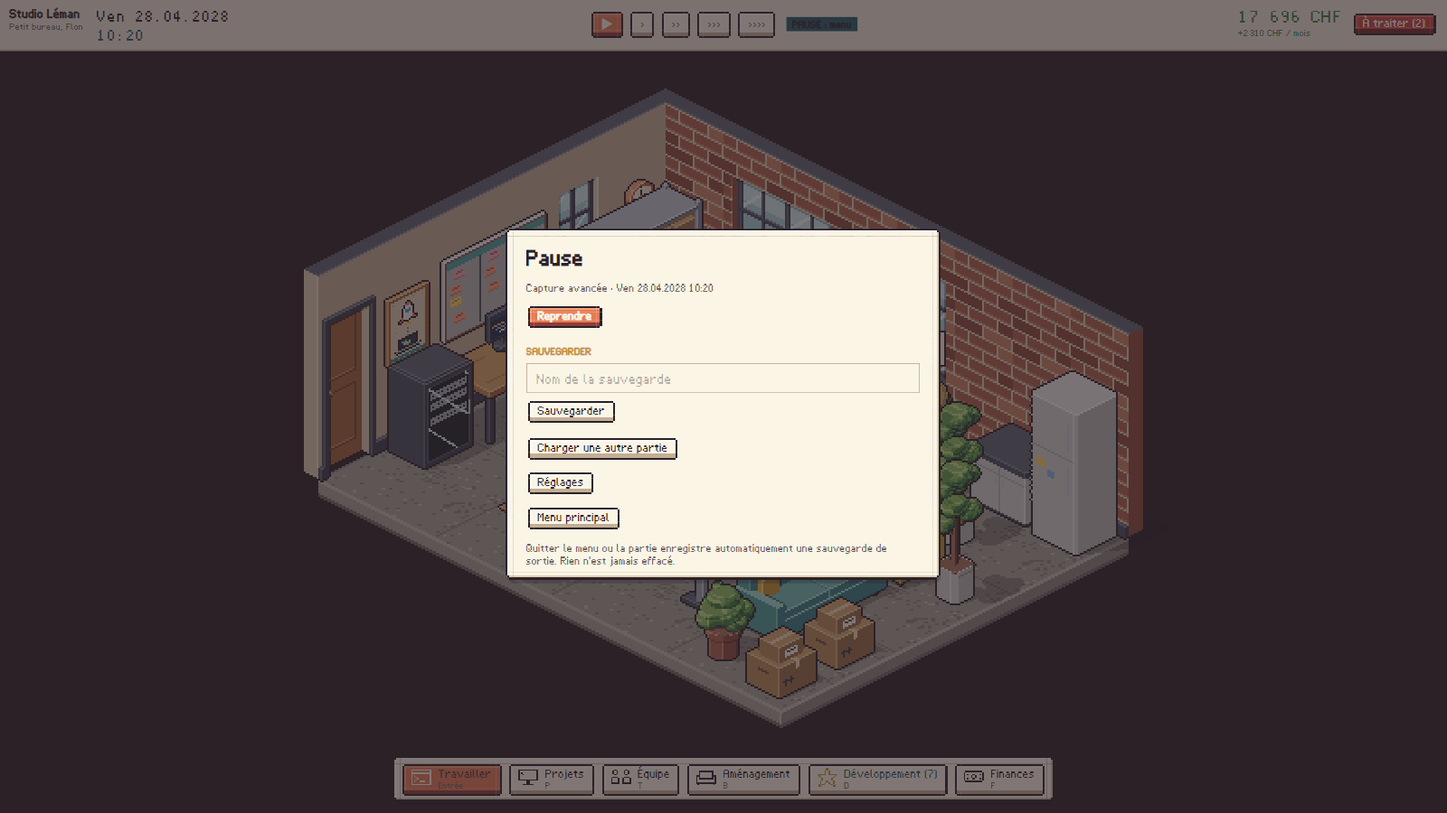
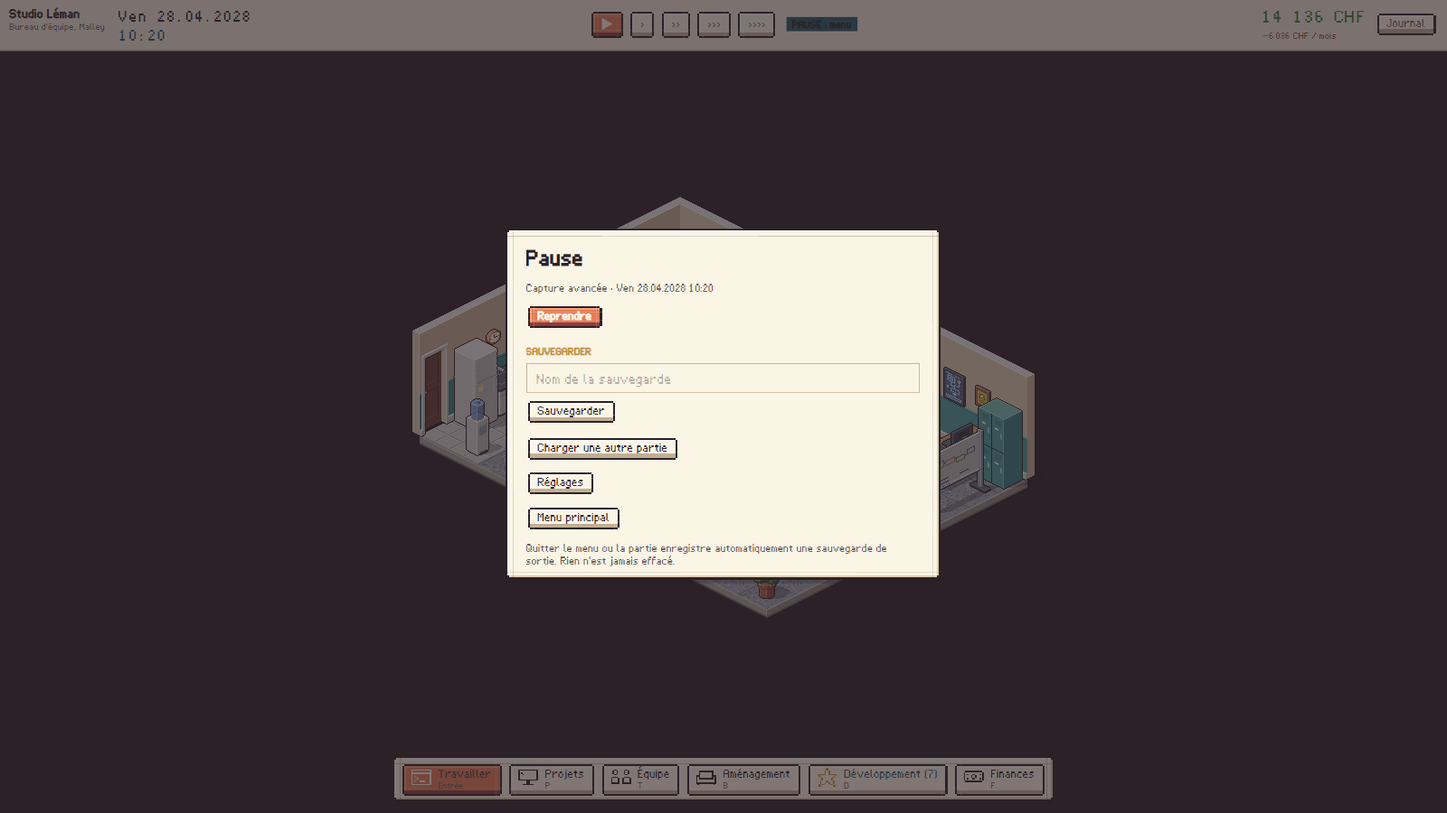
docs(V1 lot 4): sites, infrastructure, cloud, format 4, registre et captures
- V1_ETAT : lot 4 fait, limites (rentabilité de la salle serveur à petite échelle, datacenter et
  siège sans test dédié), matrice à jour
- DESIGN_SIMULATION : sites et locations, infrastructure, ordre d'usage, offres cloud, nouveaux nœuds
- SAVES : format 4 et migration 3 → 4 vérifiée sur une vraie sauvegarde
- Registre : 77 validées (59 avant), 142 partielles, 367 non implémentées (tools/registry_lot4.py)
- Passation : règles multisites (ne pas utiliser Premises dans la simulation), suite conseillée
- Captures refaites par le parcours --capture, dont 26 à 28 (salle serveur, Sites, Services cloud)

Changed region(s): [[0.1875, 0.0933, 0.8125, 0.9022], [0.875, 0.0, 1.0, 0.0622], [0.0312, 0.0, 0.1875, 0.0622]]

diff --git a/tools/registry_lot4.py b/tools/registry_lot4.py
@@ -1,0 +1,81 @@
+"""
+Met à jour docs/asset_usage.csv avec l'infrastructure et les sites branchés au lot 4 (voir docs/V1_ETAT.md).
+
+« validé » : un consommateur réel dans le jeu ET un test qui vérifie une conséquence (Tests/space/InfrastructureTest.cs,
+Tests/space/SitesTest.cs). « partiel » : effet codé avec la même règle que des objets testés, sans test sur cet identifiant.
+
+    python tools/registry_lot4.py
+"""
+import csv
+import os
+
+ROOT = os.path.dirname(os.path.dirname(os.path.abspath(__file__)))
+REGISTRY = os.path.join(ROOT, "docs", "asset_usage.csv")
+
+INFRA = "Core/space/Furniture.cs;Core/space/Infrastructure.cs;Core/campaign/Campaign.Infra.cs"
+CONSUMER = "Infrastructure du site (capacités, électricité, froid, réseau), hébergement interne, offres cloud"
+TEST = "Tests/space/InfrastructureTest.cs : "
+
+
+def row(indicator, state, test, files=INFRA, unlock="arbre « Salle serveur » (catalogue)", consumer=CONSUMER):
+    return dict(consommateur=consumer, fichier_definition=files, deblocage=unlock,
+                indicateur_ou_interaction=indicator, etat=state, scenario_test=test)
+
+
+updates = {}
+validated = [
+    (["rack_compact", "rack_standard", "module_server_1u", "module_storage_2u", "module_storage_jbod_4u", "module_network_switch_1u",
+      "module_patch_panel_1u", "module_cable_manager_1u"],
+     "emplacements en U, switch obligatoire, contrôleur de disques, organisation du câblage (−10 % sans)", "ModulesFillRackUnitsAndNeedASwitchAndAController"),
+    (["server_tower_classic", "crac_unit", "fiber_box"], "capacité limitée par le froid, consommation du climatiseur, débit réseau du site",
+     "PowerCoolingAndNetworkLimitWhatASiteDelivers"),
+    (["rack_high_density", "module_gpu_4u", "module_blank_1u"], "chaleur des modules −20 % (porte refroidie), obturateurs −3 % (9 % au plus), GPU",
+     "HighDensityRacksAndBlanksRunCooler"),
+    (["ups_floor", "supervision_console"], "probabilité d'incident : couverture des onduleurs, supervision ÷2", "UpsAndSupervisionMakeIncidentsRarer"),
+]
+for ids, indicator, test in validated:
+    for i in ids:
+        updates[i] = row(indicator, "validé", TEST + test, unlock="dès le départ (catalogue)" if i in ("server_tower_classic", "fiber_box") else
+                         "arbre « Haute densité »" if i in ("rack_high_density", "module_gpu_4u") else "arbre « Salle serveur » (catalogue)")
+updates["cable_tray_straight"] = row("organisation du câblage +0,5 ; partage la case (en hauteur)", "validé",
+                                     TEST + "ModulesFillRackUnitsAndNeedASwitchAndAController (retirés : −10 %)")
+
+partial = {
+    "module_compute_2u": "calcul 40 + hébergement 8", "module_compute_node_2u": "calcul parallèle 64 (sans hébergement)",
+    "module_ups_2u": "onduleur de baie, 2 kW", "nas_desktop": "stockage 16 To sur un meuble", "rack_cooler_inrow": "froid +12 kW",
+    "power_distribution_cabinet": "puissance du site +30 kW (livrée avec la salle serveur)", "router": "débit réseau +100",
+    "network_switch_desk": "débit réseau +50", "access_point": "débit réseau +50 (au mur)", "network_cabinet": "organisation +2",
+    "cable_tray_corner": "organisation +0,5", "cable_conduit": "organisation +0,5 (au sol)",
+    "security_cage_panel": "sécurité +1 : confiance des offres cloud (+25 % de demande au plus)", "security_cage_door": "sécurité +2",
+    "workstation_gpu": "poste de travail ×1,05 et 2 unités GPU", "workstation_compute": "poste de travail ×1,05 et 12 unités de calcul",
+}
+for i, indicator in partial.items():
+    updates[i] = row(indicator, "partiel", "même règle que les objets testés dans " + TEST.split(" :")[0] + " ; pas de test sur cet identifiant")
+
+SITES = "Core/space/RealEstate.cs;Core/campaign/Campaign.Sites.cs"
+updates["room_server_compact"] = row("site technique : climatisation, armoire électrique, fibre, chemins de câbles livrés ; pas de bureaux en déménagement",
+                                     "validé", "Tests/space/SitesTest.cs : TechnicalRoomsAreUnlockedInTheTreeAndHostNoDesks", SITES,
+                                     "arbre « Salle serveur », location en plus", "Sites (louer, déménager, fermer, afficher)")
+updates["room_datacenter"] = row("site technique à grande échelle (deux climatiseurs, armoires, cage livrés)", "partiel",
+                                 "même code que la salle serveur ; pas de test dédié", SITES, "arbre « Datacenter »", "Sites")
+updates["room_hq_floor"] = row("siège : jusqu'à 60 postes, accueil, cafétéria, sanitaires, réunions livrés", "partiel",
+                               "même code que les autres bureaux ; pas de test dédié", SITES, "arbre « Plusieurs sites »", "Sites")
+
+with open(REGISTRY, encoding="utf-8", newline="") as f:
+    reader = csv.DictReader(f)
+    columns = reader.fieldnames
+    rows = list(reader)
+known = {r["id"] for r in rows}
+missing = sorted(set(updates) - known)
+assert not missing, f"IDs absents du registre : {missing}"
+for r in rows:
+    if r["id"] in updates:
+        r.update(updates[r["id"]])
+with open(REGISTRY, "w", encoding="utf-8", newline="") as f:
+    writer = csv.DictWriter(f, fieldnames=columns)
+    writer.writeheader()
+    writer.writerows(rows)
+states = {}
+for r in rows:
+    states[r["etat"]] = states.get(r["etat"], 0) + 1
+print(states)

diff --git a/docs/V1_ETAT.md b/docs/V1_ETAT.md
@@ -28,19 +28,19 @@ Ce fichier sert à reprendre le travail : il dit ce qui existe vraiment dans le 
 | Le fondateur ne produit plus en passif | **fait (lot 2)** | `Campaign.Time.cs` (`FounderTime`) : support seulement, hors terminal | — |
 | Terminal de saisie mot par mot | **fait (lot 2)** | `Core/campaign/Campaign.Terminal.cs`, `UI/Hud/TerminalView.cs`, `UI/Screens/GameScreen.cs` | Améliorations du terminal dans l'arbre (lot 3), saisie simplifiée d'accessibilité |
 | Mini-jeux de grosses actions et délégation | **fait (lot 3)** pour le logiciel | `Core/campaign/Campaign.Launch.cs`, `UI/Hud/LaunchView.cs` | Mini-jeux matériel, IA, quantique (lots 5 et 6) |
-| Avis causaux avec lien vers le levier | partiel | `Core/products/Reviews.cs` | Causes matériel (rupture, défauts, délai), cloud, IA |
-| Prix, marketing, souhaits, entretien, hébergement plafonné | fait | `Campaign.Products.cs` (`SetPrice`, `SetMarketing`, `AdjustHosting`), `Core/products/Market.cs` | Relier à l'infrastructure interne |
+| Avis causaux avec lien vers le levier | partiel | `Core/products/Reviews.cs` ; offres cloud : `Campaign.CloudTrends` (prix, saturation, coupures) | Causes matériel (rupture, défauts, délai), IA |
+| Prix, marketing, souhaits, entretien, hébergement plafonné | **fait (lot 4)** | `Campaign.Products.cs` (`AdjustHosting` : externe, ou interne avec débordement sous le plafond), `Core/products/Market.cs` (`Product.Capacity`) | — |
 | Équipe : recrutement, horaires, congés, formation, augmentation | fait | `Core/campaign/Campaign.Team.cs`, `Core/team/` | Métiers nouveaux (opérateur, chercheur), apparences du pack |
 | Arbre de développement sur vrais jalons | partiel | `Core/progress/DevTree.cs` (25 nœuds, 6 branches dont « Outils du boss »), `Campaign.Daily.cs` (`AwardUsers`, `CheckMilestones`) | Sous-branches matériel, industrie, IA, cloud, recherche |
-| Finances et faillite progressive | fait | `Core/finance/Ledger.cs`, `Core/finance/Solvency.cs`, `Campaign.Daily.cs` (`UpdateSolvency`) | Charges énergie, matières, calcul externe ; détail par site |
-| Sauvegardes nommées, automatiques, atomiques, migration | **format 3 (lot 2)** | `SaveStore.cs` (format 3), `Migration.cs` (1 → 2), `MigrationV2.cs` (2 → 3), copie `.v<format>.json` | Sites multiples et nouvelles activités (format 4, lot 4) |
+| Finances et faillite progressive | fait | `Core/finance/Ledger.cs` (catégories `Cloud`, `Energy`), `Core/finance/Solvency.cs`, `Campaign.Daily.cs` | Matières (lot 5) ; détail du résultat par site |
+| Sauvegardes nommées, automatiques, atomiques, migration | **format 4 (lot 4)** | `SaveStore.cs` (format 4), `Migration.cs` (1 → 2), `MigrationV2.cs` (2 → 3), `MigrationV3.cs` (3 → 4), copie `.v<format>.json` | Nouvelles activités des lots 5 et 6 |
 | Mobilier utile et plafonné | **fait (lot 3)** pour le bureau | `Core/space/Furniture.cs` (89 IDs du pack jouables), `Core/space/Layout.cs` (`Comfort` : 8 indicateurs plafonnés avec couverture), synthèse dans `UI/Hud/Panels/BuildPanel.cs` | `moving_box` ; mobilier des ateliers, labos et salles techniques (lots 4 à 6) ; synthèse multisite (lot 4) |
-| Plusieurs sites visitables, vue commune | absent | Un seul `Premises` dans `Campaign`, sur un plan du pack (chambre, petit bureau, bureau moyen, open space) | Lot 4 |
+| Plusieurs sites visitables, vue commune | **fait (lot 4)** | `Campaign.Sites`, `Campaign.SiteId` (vue), `Core/campaign/Campaign.Sites.cs`, `Core/space/RealEstate.cs` (parc d'offres), `UI/Hud/Panels/SitesPanel.cs` | Ateliers, usine, laboratoire (lots 5 et 6) ; transferts entre sites avec délai (lot 5, pour les stocks) |
 | Rendu isométrique, ancres, tri topologique, ombres, couches | **fait (lots 2 et 3)** | `UI/Iso/PackImages.cs`, `UI/Iso/RoomRenderer.cs` (portage du compositeur ; objets muraux et plafond depuis le local réel), `UI/Scene/SceneCanvas.cs` | Estompage des objets hauts |
 | HUD Papier, polices du pack, curseurs | partiel (lot 2) | `UI/Pixel/PixelPanel.cs` (9-slice du pack), `UI/Pixel/Palette.cs`, `UI/App.axaml`, `UI/Pixel/Icons.cs` | Curseurs, onglets, cartes, listes, cases à cocher du pack ; police à régler (taille non multiple de 12) |
 | Personnages en couches, coiffures, peaux | **fait (lot 2)** | `Core/team/Person.cs` (`Appearance`), `UI/Iso/Portraits.cs`, choix à la nouvelle campagne | Recoloration des tenues |
 | Matériel, usine, stocks, approvisionnement, canaux de vente | absent | — | Lot 5 |
-| Infrastructure interne, racks, énergie, refroidissement, offres cloud | absent | — | Lot 4 |
+| Infrastructure interne, racks, énergie, refroidissement, offres cloud | **fait (lot 4)** | `Core/space/Infrastructure.cs`, `Core/campaign/Campaign.Infra.cs`, `Core/campaign/Campaign.Cloud.cs`, `UI/Hud/Panels/CloudPanel.cs` | Usage du calcul et des GPU par l'IA et la recherche (lots 5 et 6) ; quantique (lot 6) |
 | IA simulée | absent | — | Lot 6 |
 | Recherche, laboratoires, studio, XR, quantique | absent | — | Lots 5 et 6 |
 | Bots d'équilibrage et rapport | partiel | `Core/bots/`, `Tests/balance/` (terminal, délégation, mots tapés mesurés) | Nouvelles branches (lots 4 à 6) |
@@ -55,7 +55,7 @@ Le pack fournit un compositeur C# de référence (`assets/StartupRushOriginalAss
 | 1 | Audit, protection des sauvegardes, registre de couverture | **fait** : pack et spécification versionnés, registre de 586 lignes (570 IDs, 10 plans, 6 modules), contrôle statique, cette matrice. Les sauvegardes actuelles sont déjà atomiques avec copie `.bak` ; la migration vers le format 3 arrive avec le lot 2. |
 | 2 | Chambre avec les nouveaux assets, HUD, création de projet, terminal du boss, premier lancement, avis, sauvegarde et reprise | **fait**, voir ci-dessous |
 | 3 | Employés automatiques, délégation, mini-jeux sans spam, arbre et confort utiles | **fait**, voir « Lot 3 » (mini-jeux matériel, IA et quantique avec les lots 5 et 6) |
-| 4 | Multisite, réseau, racks, hébergement interne et externe, offres cloud | à faire |
+| 4 | Multisite, réseau, racks, hébergement interne et externe, offres cloud | **fait**, voir « Lot 4 » |
 | 5 | Recherche, prototypage, gamme matérielle, flux d'usine, stocks, approvisionnement, canaux de vente | à faire |
 | 6 | IA simulées, studio, XR, calcul avancé et quantique | à faire |
 | 7 | Couverture de tous les IDs, équilibrage, performance, accessibilité, migrations, candidat de sortie | à faire |
@@ -137,7 +137,41 @@ Reste (reporté aux lots suivants, avec leur contexte) :
 - `moving_box` : montrer les cartons dans la scène et ouvrir leur contenu (décor sans fonction pour l'instant).
 - Mobilier des ateliers, laboratoires et salles techniques, synthèse multisite : lots 4 à 6.
 
+## Lot 4 : ce qui a été fait, ce qui reste
+
+Testé par `Tests/space/SitesTest.cs` et `Tests/space/InfrastructureTest.cs` ; vu sur les captures 26 à 28 du vrai jeu.
+
+- **Sites** : `Campaign.Sites` (le premier est le siège) et `Campaign.SiteId` (le site affiché, un choix de vue). Louer en plus
+  (nœud « Plusieurs sites »), déménager le site affiché, fermer un site (garantie rendue, matériel en cartons, personnes sans
+  poste nommées ; le dernier site ne se ferme pas). Le parc de locations est défini par données : 7 types de locaux, plusieurs
+  adresses chacun ; une offre louée disparaît des offres. Salle serveur et datacenter : sites techniques (climatisation,
+  armoires électriques, fibre, chemins de câbles et cage livrés ; baies et serveurs du plan = aperçu) ; siège jusqu'à 60 postes.
+- **Simulation par site** : chaque personne travaille sur le site de son poste (confort, pauses, coordination de ce site) ; le
+  site affiché ne change rien (test : deux campagnes identiques regardant deux sites différents donnent le même état).
+- **Format 4** : `MigrationV3` fait du local le premier site, reprend l'adresse depuis le nom et marque les loyers déjà facturés
+  pour ce site ; fixture réelle `Tests/fixtures/campaign_v3.json` (une sauvegarde écrite par le jeu au format 3).
+- **Infrastructure** (`Infrastructure.Of`) : modules en U dans les baies (fiche `fits` et emplacements du pack), switch
+  obligatoire, tiroir de disques avec contrôleur ; capacités hébergement, calcul, GPU, stockage ; électricité (base du local +
+  armoires), froid (base + climatiseurs ; baie haute densité −20 %, obturateurs −3 % chacun, 9 % au plus), réseau (2 par unité
+  d'hébergement), câblage (−10 % sans organisation), onduleurs et supervision contre les incidents (3 % par jour au plus), cage
+  (confiance des offres). Les climatiseurs consomment selon la chaleur. Électricité à 0,25 CHF/kWh, facturée avec le mois.
+- **Hébergement interne** : chaque nuit, les projets « sur tes serveurs » reçoivent leur part dans l'ordre du portefeuille
+  (avec 25 % de marge), une réserve réglable reste libre, puis les offres cloud. Ce qui ne tient pas déborde chez l'hébergeur,
+  sous le plafond du projet (0 : jamais).
+- **Offres cloud** : hébergement, stockage (nœud « Offres cloud »), calcul et GPU (« Calcul à la demande ») ; prix et réserve
+  réglables ; demande agrégée (taille du marché, renommée, prix, coupures des 30 derniers jours, sécurité) ; une réservation qui
+  ne tient plus est réduite avec un avertissement ; causes lisibles avec leur levier ; +2 points à 1 000 CHF sur 30 jours.
+- **Bots** : « hebergement_maison » (0 faillite sur 5 ; 77 865 CHF médian contre 191 938 sans salle serveur sur 18 mois).
+
+Limites et suite :
+- À petite échelle, la salle serveur se rembourse lentement (bilan ci-dessus) : à réévaluer au lot 7 avec l'IA et la recherche,
+  qui consommeront le calcul et les GPU (aujourd'hui seulement vendus).
+- Pas de câblage fil à fil ni de zones dans une pièce : l'organisation et la sécurité sont des scores plafonnés par site.
+- Le datacenter et le siège n'ont pas de test dédié (même code que la salle serveur et les bureaux).
+- `moving_box` toujours sans fonction ; mini-jeux matériel/IA/quantique avec les lots 5 et 6.
+
 ## Couverture du registre
 
-586 lignes : **59 validées**, 124 partielles (branchées sans test d'effet, ou vérifiées seulement en capture), 403 non
-implémentées (dont les décors des plans, affichés mais sans fonction pour l'instant). Lot 3 : `tools/registry_lot3.py`. Une ligne passe à « validé » seulement quand elle nomme un consommateur réel dans le jeu, son fichier de définition et un scénario de test qui vérifie une conséquence (avant/après pour un objet de gameplay, action et état pour un contrôle d'interface). Le contrôle `AssetRegistryTest` est statique : il vérifie les IDs et les fichiers cités, pas les effets.
+586 lignes : **77 validées**, 142 partielles (branchées sans test d'effet, ou vérifiées seulement en capture), 367 non
+implémentées (dont les décors des plans, affichés mais sans fonction pour l'instant). Lot 3 : `tools/registry_lot3.py` ;
+lot 4 : `tools/registry_lot4.py`. Une ligne passe à « validé » seulement quand elle nomme un consommateur réel dans le jeu, son fichier de définition et un scénario de test qui vérifie une conséquence (avant/après pour un objet de gameplay, action et état pour un contrôle d'interface). Le contrôle `AssetRegistryTest` est statique : il vérifie les IDs et les fichiers cités, pas les effets.

diff --git a/DESIGN_SIMULATION.md b/DESIGN_SIMULATION.md
@@ -112,6 +112,42 @@ Les objets muraux se posent sur les murs du fond (un mur plein ; les stores sur 
 luminaire au plafond ; ni l'un ni l'autre ne prend de case au sol. Le trophée (premier lancement) et la plaque (10 000 CHF par
 mois) arrivent dans les cartons et ne se revendent pas.
 
+## 4 ter. Sites, infrastructure et cloud
+
+✅ Une seule entreprise, plusieurs sites. Le premier est le siège. On ouvre un site de plus (nœud « Plusieurs sites »), on
+déménage le site affiché, on ferme un site sans rien perdre (cartons, garantie rendue, personnes concernées nommées). Regarder un
+site ne change rien : chacun travaille là où est son poste.
+
+| Local ⚙ | Loyer / mois | Adresses | Électricité, froid, réseau de base | Déblocage |
+|---|---|---|---|---|
+| Ta chambre | compris | Prilly | 3 kW, 0,6 kW, 50 | — |
+| Petit bureau | 2 300 | Flon, Ouchy, Morges | 8, 1,5, 50 | — |
+| Bureau d'équipe | 5 400 | Malley, Ecublens | 15, 2, 100 | — |
+| Grand open space | 12 500 | Renens, Nyon | 30, 3, 200 | — |
+| Siège (60 postes) | 26 000 | Lausanne-Gare | 60, 5, 400 | Plusieurs sites |
+| Salle serveur | 1 800 | Crissier, Bussigny | 12 (+30 armoire), 0 (+24 climatiseur), 300 (+1 000 fibre) | Salle serveur |
+| Datacenter | 16 000 | Gland, Yverdon | 40 (+60), 0 (+48 et rangées), 2 000 | Datacenter |
+
+Infrastructure ⚙ (`Core/space/Furniture.cs`, `Core/space/Infrastructure.cs`) :
+- Une baie (8U ou 20U) reçoit des modules en U ; il lui faut un **switch**. Serveur 1U : 16 unités d'hébergement ; calcul 2U :
+  40 de calcul et 8 d'hébergement ; nœuds de calcul : 64 ; GPU 4U : 10 ; stockage 2U : 48 To ; tiroir de disques : +96 To avec
+  un stockage 2U dans la même baie. Serveur tour : 8 unités sans baie.
+- Ce qu'un site fournit est limité par l'**électricité** (puissance distribuable), le **froid** (chaleur évacuée ; sinon au
+  plus 30 %), le **réseau** (2 de débit par unité d'hébergement) et le **câblage** (−10 % sans brassage ni passe-câbles :
+  2 points par baie). Chaque limite est affichée avec sa raison.
+- **Incidents** : 3 % par jour pour un site équipé, réduits par les onduleurs (jusqu'à −90 %) et la supervision (÷2) ; un
+  incident coupe la moitié de la capacité du site pour la journée.
+- **Électricité** : 0,25 CHF/kWh, facturée avec le mois (catégorie « Électricité et réseau »), plus l'abonnement fibre.
+
+✅ Ordre d'usage : tes projets hébergés en interne d'abord (ordre du portefeuille, 25 % de marge), une réserve réglable, puis les
+offres cloud. Une même unité n'est jamais promise deux fois. Un projet en interne déborde chez l'hébergeur pour ce qui ne tient
+pas, sans dépasser son plafond.
+
+Offres cloud ⚙ (`Core/campaign/Campaign.Cloud.cs`) : hébergement (14 CHF par unité et par mois), stockage (9 CHF/To),
+calcul (9), GPU (120). La demande va vers une cible : taille du marché × renommée × prix (élasticité 1,6) × fiabilité (−6 % par
+jour de coupure sur 30 jours) × sécurité (+25 % avec une cage complète) ; une offre saturée perd des clients. Chaque offre
+explique ce qui la fait monter ou baisser (« trop cher », « plus de place », « des coupures », « fiable »).
+
 ## 5. Automatismes
 
 | Ce qui est automatique | Règle | Ce que le joueur règle |
@@ -160,6 +196,7 @@ Une seule monnaie : les **points de développement**. Ils ne servent qu'à la ca
 | Infrastructure | Cloud M (1), Optimisation −15 % de charge (1), Cloud L et cluster (2) |
 | Commercial | Moteurs de recherche (1), Lancements événementiels (1), Salons et presse (2), Fidélisation −15 % d'abandon (2) |
 | Innovation | Laboratoire qualité +0,05 (2), Assistants de code +10 % de production (3) |
+| Lot 4 | Plusieurs sites (Organisation, 1), Salle serveur (Infrastructure, 1), Haute densité (2), Datacenter (3), Offres cloud (Commercial, 2), Calcul à la demande (2) |
 
 Chaque nœud a un effet réel, testé ou visible dans la simulation. Aucune branche n'en exclut une autre et rien n'est irréversible. Les outils de base (application, jeu, composants niveaux 1 et 2, réseaux sociaux, hébergement mutualisé et Cloud S) sont disponibles dès le départ.
 

diff --git a/docs/PASSATION_IA.md b/docs/PASSATION_IA.md
@@ -41,9 +41,9 @@
 
 ```
 dotnet build StartupRush.sln
-dotnet test Tests/Tests.csproj                                   # 102 tests à la fin du lot 3
+dotnet test Tests/Tests.csproj                                   # 115 tests à la fin du lot 4
 dotnet test Tests/Tests.csproj --filter Name=WriteBalanceReport  # réécrit BALANCE_REPORT.md (bots, ~1 min)
-UI.exe --capture <dossier>                                       # parcours scripté dans le vrai jeu, 28 captures + rapport
+UI.exe --capture <dossier>                                       # parcours scripté dans le vrai jeu, 32 captures + rapport
 ```
 
 Pièges connus :
@@ -100,7 +100,8 @@ Pièges connus :
   ce qui a été branché. `Tests/space/AssetRegistryTest.cs` vérifie les IDs et que chaque ligne validée cite des fichiers
   existants (contrôle **statique**, à présenter comme tel).
 - À la fin du lot 2 : 36 validées, 96 partielles, 454 non implémentées. À la fin du lot 3 : 59 validées, 124 partielles,
-  403 non implémentées (`tools/registry_lot3.py`).
+  403 non implémentées (`tools/registry_lot3.py`). À la fin du lot 4 : 77 validées, 142 partielles, 367 non implémentées
+  (`tools/registry_lot4.py`).
 
 ## 7. Où on en est
 
@@ -116,9 +117,23 @@ Voir le tableau des lots de `docs/V1_ETAT.md` et la section « Lot 3 » ci-desso
 - Objets muraux : `PlacedItem.Wall` (« left »/« right ») ; `Premises.Floor` les exclut, `Premises.WallItems` les liste ; la case
   (0, v) vise le mur de gauche, (u, 0) celui de droite, le coin se départage par l'orientation. Le décor mural des plans vient
   maintenant du local (plus du JSON du plan) ; les anciennes sauvegardes le reçoivent une fois au chargement.
-- Ordre conseillé ensuite : lot 4 (plusieurs sites : `Campaign.Premises` devient une liste de sites, `SiteComfort` par site,
-  format de sauvegarde 4 + migration ; salle serveur, racks, réseau, hébergement interne et offres cloud), puis lots 5 à 7.
-  Reste du lot 3 reporté : mini-jeux matériel/IA/quantique (lots 5-6), fonction de `moving_box`.
+- Reste du lot 3 reporté : mini-jeux matériel/IA/quantique (lots 5-6), fonction de `moving_box`.
+
+## 9. Lot 4 et la suite
+
+- Lot 4 fait : voir « Lot 4 » dans `docs/V1_ETAT.md` et §4 ter de `DESIGN_SIMULATION.md`. Format de sauvegarde **4**.
+- **Sites** : `Campaign.Sites` (le premier = siège), `Campaign.SiteId` = site **affiché** ; `Campaign.Premises` est une
+  propriété calculée (non sérialisée) qui renvoie/remplace le site affiché : les commandes d'aménagement agissent sur lui.
+  **Dans la simulation, ne jamais utiliser `Premises`** : passer par `PostOf(person)` / `SiteOf(person)` (site du poste, siège
+  sinon), `SiteComfort(site)`, `SiteInfra(site)`, `Sites` pour les sommes (loyers, matériel). Fichier : `Campaign.Sites.cs`.
+- **Infrastructure** : `Core/space/Infrastructure.cs` (`Infrastructure.Of(site)` → `InfraSummary`, raisons dans `Issues`) ;
+  modules de baie = `PlacedItem` accrochés avec `Socket = "slot:<i>"` (`Layout.CanSlot`, `FreeSocket`) ; dessinés par
+  `RoomRenderer.Attach`. Répartition chaque nuit dans `Campaign.Infra.cs` (`RunInfrastructure`), offres dans `Campaign.Cloud.cs`.
+- Les plans `room_hw_workshop`, `room_factory_hall`, `room_advanced_lab` ne sont pas encore à louer (lots 5 et 6) ; leurs
+  machines sont des décors. Le calcul et les GPU ne servent qu'aux offres cloud tant que l'IA et la recherche n'existent pas.
+- Ordre conseillé ensuite : lot 5 (recherche et prototypage, gamme matérielle, atelier et usine avec flux, stocks,
+  approvisionnement sous plafond, canaux de vente ; format 5), puis lot 6 (IA simulées sur le calcul/GPU du lot 4, studio, XR,
+  quantique), puis lot 7.
 - Points à vérifier signalés au lot 2 (toujours ouverts) : personnages assis moins nombreux que les postes sur la capture de
   la campagne avancée ; police pixel floue à certaines tailles ; « marketing excessif » trop peu puni (2/5 faillites).
 - Piège d'outillage : certains heredocs bash avec des apostrophes françaises échouent (« unexpected EOF ») ; écrire les scripts

diff --git a/SAVES.md b/SAVES.md
@@ -26,7 +26,8 @@ JSON, une seule ligne :
   "Campaign": { ...tout l'état... } }
 ```
 
-- **Versionné** : `Format` vaut 2 (projets à composants). Un fichier d'un format plus récent est refusé avec un message, sans être touché. Un fichier au format 1 est converti au chargement (voir plus bas).
+- **Versionné** : `Format` vaut 4 (plusieurs sites, lot 4). Un fichier d'un format plus récent est refusé avec un message, sans être touché. Les formats 1, 2 et 3 sont convertis au chargement, l'original étant copié en `.v<format>.json` (voir plus bas).
+- **Format 3 → 4** (`Core/persistence/MigrationV3.cs`) : le local devient le premier site (`Sites`, `SiteId`), son adresse est reprise de son nom, les loyers déjà facturés restent marqués pour ce site (aucun loyer payé deux fois). Vérifié sur une vraie sauvegarde du jeu (`Tests/fixtures/campaign_v3.json`, test `AFormat3SaveBecomesTheFirstSiteWithoutPayingRentTwice`). Nouveaux champs du format 4 : sites, offres cloud, hébergement interne des projets, incidents des 30 derniers jours, réserve d'hébergement.
 - **Résumé** lisible sans charger la campagne (liste des sauvegardes : nom, date de jeu, entreprise, situation, trésorerie, dernière écriture).
 - **Campagne complète** : minute de jeu, état du générateur aléatoire (`Random.State`), compteur d'identifiants (`NextId`), local et meubles (positions, attributions), cartons, personnes (compétences, énergie, moral, affectation, horaire, congés, formation, augmentations, préavis), candidats, projets (type, public, prix, couleur, ordre, composants et leur qualité, file d'améliorations, version, entretien, serveurs automatiques et plafond, marketing, liste de souhaits, marché, avis, historique de 400 jours), tâches avec leur avancement, concurrents, comptes (trésorerie, mouvements, factures, dettes, prêts, totaux mensuels, coûts courus), situation financière, notifications (regroupements et résolutions), événements déjà traités, jalons, points et nœuds de l'arbre, accomplissements déjà récompensés.
 - Les propriétés calculées ne sont pas écrites.
@@ -75,5 +76,5 @@ L'ancien éditeur de pages n'existe plus. Les titres, textes, dispositions et pa
 
 ## Limites
 
-- Seul le passage du format 1 au format 2 existe. Chaque nouveau format devra ajouter le sien.
+- Chaque format a son passage : 1 → 2 (`Migration.cs`), 2 → 3 (`MigrationV2.cs`), 3 → 4 (`MigrationV3.cs`). Chaque nouveau format devra ajouter le sien.
 - Les sauvegardes ne sont pas chiffrées ni signées : on peut les modifier à la main.
